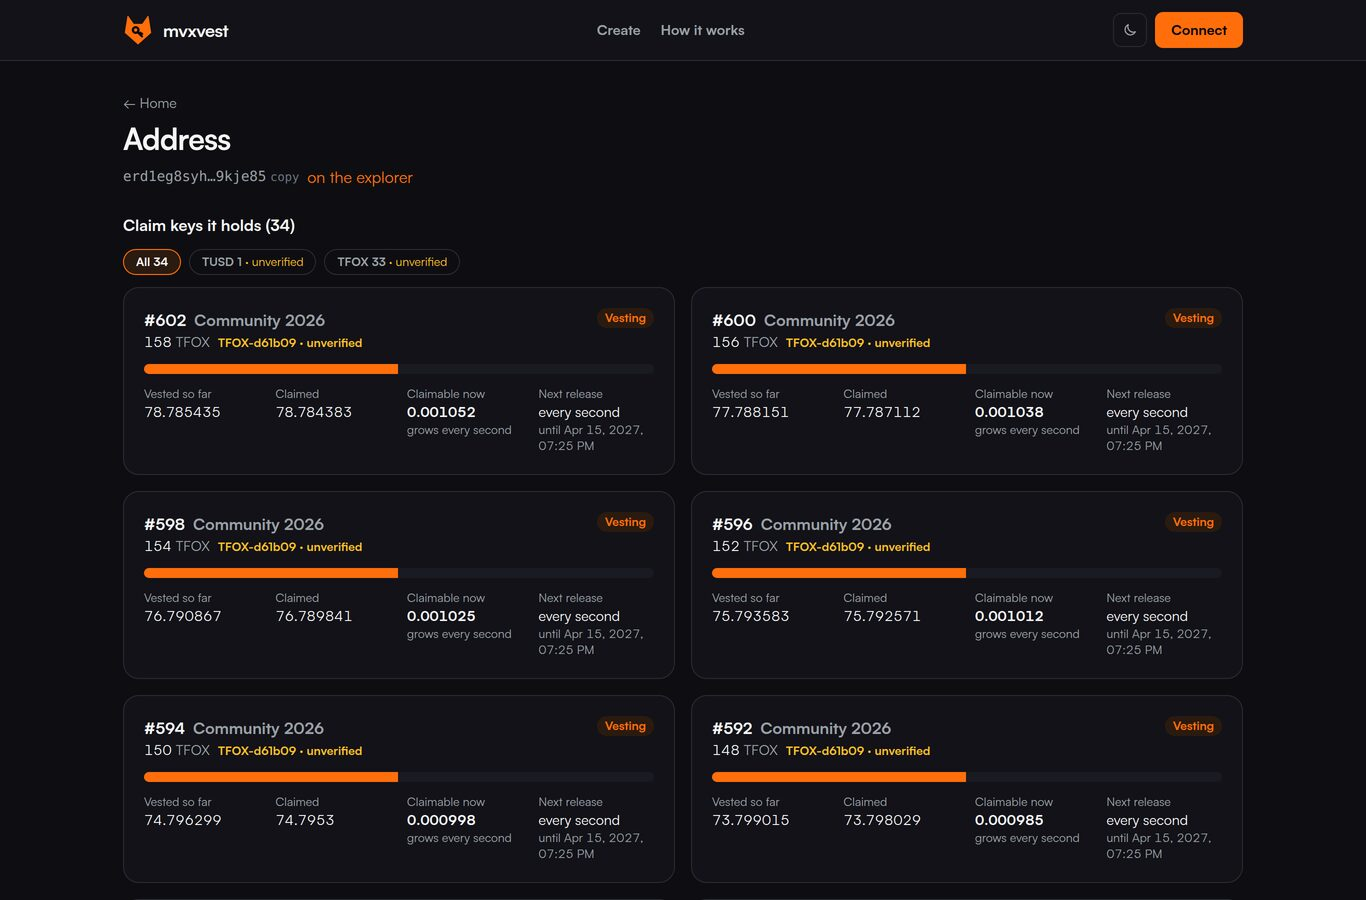
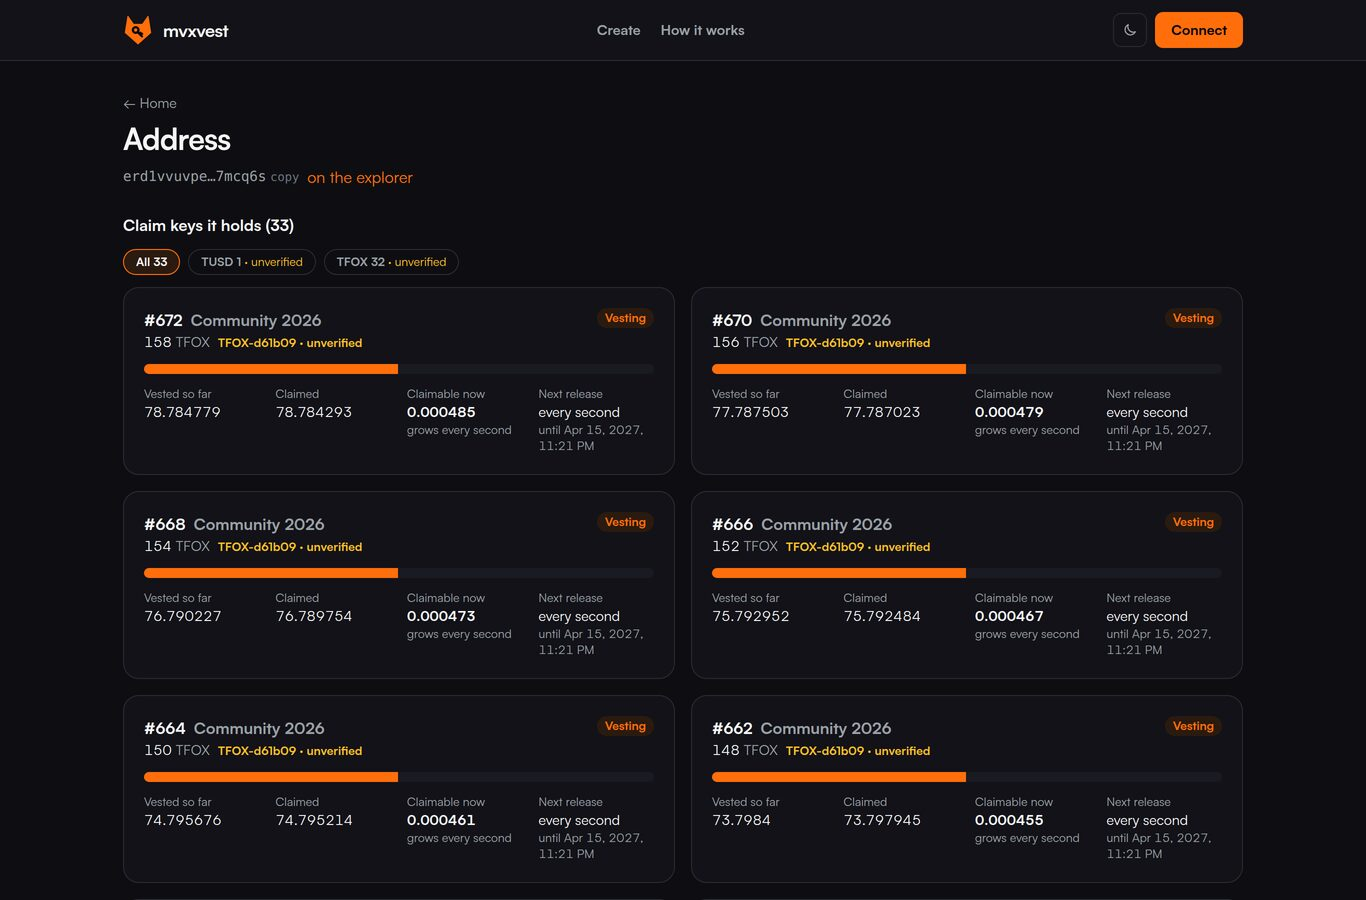
How it works: all 22 pictures retaken with a fresh devnet-only demo wallet
No picture shows a wallet with a history any more (third audit, O1): the
creator is a new xPortal wallet funded by scripts/src/fund-demo.ts, the other
beneficiaries are addresses nobody holds. The set comes from one run, so 20
and 21 show the same vesting, every review shows mainnet's 0.1 EGLD fee and
the current wording, and picture 18 shows the new 'what was received' panel.
Captions follow; the blur notes are gone.

diff --git a/dapp/src/pages/Guide.tsx b/dapp/src/pages/Guide.tsx
@@ -239,11 +239,11 @@ export const Guide = () => (
       </p>
       <Shot
         src='07-create-rows'
-        caption='Three beneficiaries typed one by one (their addresses are blurred in this picture).'
+        caption='Three beneficiaries typed one by one.'
       />
       <Shot
         src='15-csv'
-        caption='Sixty lines from a CSV (blurred here): the page splits them into transactions the network accepts.'
+        caption='Sixty lines from a CSV: the page splits them into transactions the network accepts.'
       />
     </Step>
 
@@ -301,7 +301,7 @@ export const Guide = () => (
       />
       <Shot
         src='14-created'
-        caption='Created, as #604 to #606: the claim keys went to the beneficiaries and the cancel keys to you.'
+        caption='Created, as #611 to #613: the claim keys went to the beneficiaries and the cancel keys to you.'
       />
     </Step>
 
@@ -316,7 +316,10 @@ export const Guide = () => (
         src='17-mine'
         caption='My vestings: a filter by token, Claim all and Claim on each card.'
       />
-      <Shot src='18-claimed' caption='After Claim all.' />
+      <Shot
+        src='18-claimed'
+        caption='After Claim all: the page says what reached the wallet, token by token.'
+      />
     </Step>
 
     <Step n={9} title='Move a claim key'>
@@ -346,7 +349,7 @@ export const Guide = () => (
       />
       <Shot
         src='21-cancelled'
-        caption='A cancelled vesting: what was returned and what the beneficiary keeps.'
+        caption='The same vesting afterwards: what was returned and what the beneficiary keeps.'
       />
     </Step>
 

diff --git a/docs/reviews/2026-10-14-fable-audit-3.md b/docs/reviews/2026-10-14-fable-audit-3.md
@@ -10,7 +10,7 @@ Each proved its findings with a test that fails on 69eb614 or with exact evidenc
 **Bottom line:**
 - Nothing in this round can take, lose or lock funds; the contract did not change.
 - The serious findings were about what people read. The new panel and the vesting page overstated what stays claimable after a cancel. The guide had lost its caveat that the owner's limits hold for the code as it stands. Pictures and test data showed full addresses of real wallets.
-- All are fixed except the pictures, which need a new set taken with a fresh devnet wallet (see O1).
+- All are fixed. The pictures were retaken the same evening with a fresh devnet-only wallet (see O1).
 
 ## Words
 
@@ -19,8 +19,8 @@ Each proved its findings with a test that fails on 69eb614 or with exact evidenc
 | W1 | Medium | After a cancel the new panel said "Stays claimable by the beneficiary: X" with the event's vested part, which counts what was claimed before the cancel. | Same as C1. |
 | W2 | Medium | The guide's owner paragraph had lost "in the code as it stands" and "an upgrade replaces the code; the rest is trust in the multisig and its signers". | Restored in the guide; the README's owner bullet says the same. |
 | W3 | Low | Picture 11 still showed devnet's old 0.01 EGLD fee. | Cropped above the review box. |
-| W4 | Low | Pictures 20 and 21 show two different vestings under "The vesting afterwards". | Caption 21 reads "A cancelled vesting". |
-| W5 | Low | Pictures 1, 5, 18 and 20 were taken before the copy change and show a comma before "and"/"or". | With the new set of pictures (O1). |
+| W4 | Low | Pictures 20 and 21 show two different vestings under "The vesting afterwards". | The new set shows one vesting, #613, in both. |
+| W5 | Low | Pictures 1, 5, 18 and 20 were taken before the copy change and show a comma before "and"/"or". | All 22 pictures retaken (O1). |
 | W6 | Low | "One prompt for several transactions" is true for xPortal, not for a Ledger, which confirms each one. | The guide, caption 16, the panel and Create say so. |
 | W7 | Low | README still gave version 1's batch limits (50 and 33) and no token fee. | 49 and 32; the fees named with their caps. |
 | W8 | Low | SECURITY.md said every finding was proven by a test and fixed; some were proven by evidence, some accepted. | "proven (by a test where one fits) and then fixed or accepted, as each report records". Same in the backlog. |
@@ -47,17 +47,23 @@ The guide also lost "Check every address: a vesting cannot be redirected" in the
 
 | # | Severity | Finding | Fix |
 |---|---|---|---|
-| O1 | Medium | Pictures 7 and 15 and the new test fixtures showed full wallet addresses. The capture wallet is also a mainnet account with a personal herotag, so the guide tied a person to a wallet. Pictures 4 and the header show it shortened. | Pictures 7 and 15 are blurred; the fixtures use an address nobody holds. The script now needs `WALLET=` (a fresh devnet-only wallet) and uses unowned addresses for the other beneficiaries. **Open:** retake the pictures with a fresh wallet. The git history is not rewritten (Sebastian, 14 Oct 2026): the address was already public on chain; a force push of the public repo would cost more than it hides. |
+| O1 | Medium | Pictures 7 and 15 and the new test fixtures showed full wallet addresses. The capture wallet is also a mainnet account with a personal herotag, so the guide tied a person to a wallet. Pictures 4 and the header show it shortened. | All 22 pictures retaken on 14 Oct 2026 with a fresh devnet-only wallet in xPortal, funded by `scripts/src/fund-demo.ts`; the other beneficiaries are addresses nobody holds. The fixtures use an address nobody holds. The capture script needs `WALLET=`. The git history is not rewritten (Sebastian, 14 Oct 2026): the address was already public on chain; a force push of the public repo would cost more than it hides. |
 | O2 | Low | The capture script had no network guard: pointed at mvxvest.io, later phases would ask for a real claim or cancel. | It refuses any site but devnet (or a local build). It also stops on a page without the test network's strip. |
 | O3 | Low | `ONLY=17` asked for a Claim all approval no picture needed. | Only when picture 18 is wanted. |
 | O4 | Low | The deploy gate missed untracked files; Vite ships all of `public/`. | Any changed or untracked file in `dapp/` refuses the deploy. |
 | O5 | Low | Devnet deploys were not gated. | The same checks for every network. |
-| O6 | Low | Pictures from different runs contradicted each other (11 and 12; 20 and 21). | See W3 and W4. |
+| O6 | Low | Pictures from different runs contradicted each other (11 and 12; 20 and 21). | One run for the whole new set. |
 | O7 | Info | The deploy's tests ran against whichever config a previous deploy left. | The network's config is copied before the tests. |
 | O8 | Info | The script's output folder depended on where it was started. | Resolved from the script's own location. |
 | O9 | Info | `deploy.sh` names the droplet's user and IP. | Accepted: the IP is the sites' public DNS record and the user name alone grants nothing. |
 | O10 | Info | Secret scanning and push protection were off on the public repo. | Both enabled on 14 Oct 2026. |
 | O11 | Info | The private beta's password file was still in the session's scratch folder (not in the repo). | Deleted. |
+
+## Found while retaking the pictures
+
+The demo wallet sits in another shard than the contract, which the earlier capture wallet did not. Two bugs on the Create page showed up there, both fixed in 62fb952 with a test (`create_after_creation.test.tsx`):
+- **No "Created N vestings".** The page read the created ids once, as soon as the transaction showed success, before the API had the cross-shard result's logs; it never read them again. Now it does, for up to 30 seconds.
+- **A false "does not hold enough TFOX".** After the creation, the form was judged against the balance that had just paid for it. Once a review has sent something, it no longer is.
 
 ## Checked sound
 

diff --git a/docs/BACKLOG.md b/docs/BACKLOG.md
@@ -10,7 +10,7 @@ Agreed work not done yet, roughly in order. The launch plan comes first; see [DE
 4. ~~**The contract upgrade:**~~ Version 2 is live since 14 Oct 2026, audited twice and voted by the multisig. It brought the fees (0.1% + 0.1 EGLD), C1 and RT3; see [MAINNET.md](MAINNET.md#version-2-14-october-2026).
 5. ~~**Make the repo public.**~~ Done on 14 Oct 2026 (Sebastian), before the announcement.
 6. **One or two more large adversarial audit rounds**, then the **official announcement** on FOXSY's channels. A third round covered what changed after the second, on 14 Oct 2026 ([report](reviews/2026-10-14-fable-audit-3.md)).
-7. **New pictures for How it works**, taken with a fresh devnet-only wallet (`WALLET=erd1... node dapp/scripts/capture/guide.mjs`), so no picture shows a wallet with a history (third audit, O1). This also retakes the pictures that still show the old wording (W5). Needs Sebastian's xPortal for the four approvals.
+7. ~~**New pictures for How it works**~~ Done on 14 Oct 2026 (all 22), taken with a fresh devnet-only wallet (`WALLET=erd1... node dapp/scripts/capture/guide.mjs`), so no picture shows a wallet with a history (third audit, O1). This also retakes the pictures that still show the old wording (W5). Needs Sebastian's xPortal for the four approvals.
 
 ## Product
 
